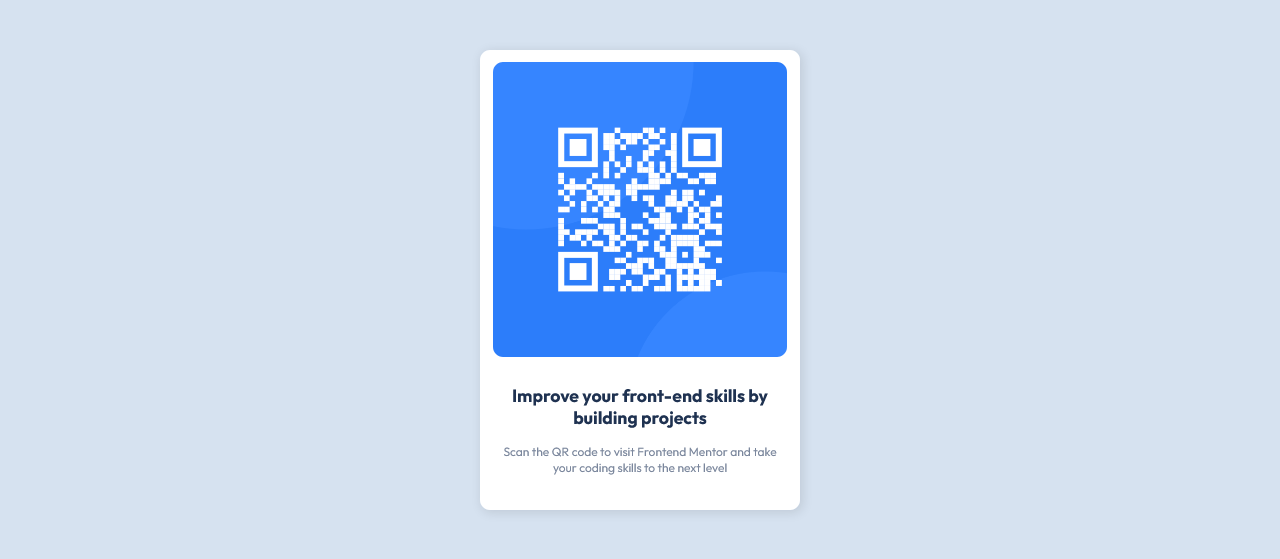
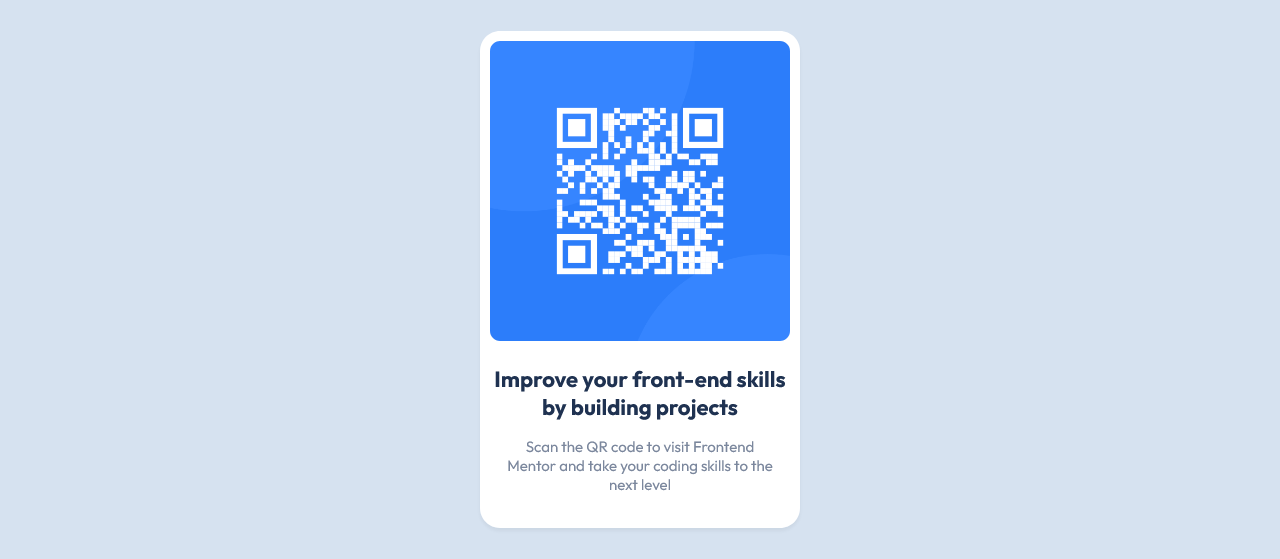
change px to rem and change margin size for Project No.1 - QR code component main

diff --git a/qr-code-component-main/style.css b/qr-code-component-main/style.css
@@ -1,47 +1,50 @@
 @import url('https://fonts.googleapis.com/css2?family=Outfit:wght@400;700&display=swap');
 
+:root {
+    font-size: 62.5%;
+}
+
 * {
     box-sizing: border-box;
 }
 
 body {
-    margin: 0;
-    height: 100vh;
     font-family: 'Outfit', sans-serif;
-    background-color: hsl(212, 45%, 89%);
     display: flex;
     justify-content: center;
     align-items: center;
+    margin: 0;
+    height: 100vh;
+    background-color: hsl(212, 45%, 89%);
 }
 
 .QR-code {
-    width: 320px;
-    padding: 1rem;
     text-align: center;
+    width: 32rem;
+    padding: 1rem;
+    border-radius: 2rem;
+    box-shadow: 0rem 0.25rem 0.25rem rgba(0, 0, 0, 0.05);
     background-color: hsl(0, 0%, 100%);
-    border-radius: 10px;
-    box-shadow: 2px 2px 10px 1px rgba(0, 0, 0, 0.1);
 }
 
 .QR-code__img {
+    display: block;
     width: 100%;
-    border-radius: 10px;
+    border-radius: 1rem;
 }
 
-.QR-code__description {
-    padding: 10px;
-    margin-top: 14px;
-}
 
 .QR-code__title {
-    margin: 0;
+    font-size: 2.2rem;
     font-weight: 700;
-    font-size: 22px;
+    margin: 2.4rem 0 0 0;
     color: hsl(218, 44%, 22%);
 }
 
 .QR-code__text {
-    margin-top: 16px;
-    font-size: 15px;
+    font-size: 1.5rem;
+    line-height: 1.9rem;
+    margin: 1.6rem 0 2.4rem 0;
+    padding: 0 1.6rem 0 1.6rem;
     color: hsl(220, 15%, 55%);
 }

diff --git a/qr-code-component-main/index.html b/qr-code-component-main/index.html
@@ -10,12 +10,12 @@
 
 </head>
 <body>
+  <main>
     <div class="QR-code">
       <img src="images/image-qr-code.png" alt="QR code" class="QR-code__img">
-      <div class="QR-code__description">
-        <h3 class="QR-code__title">Improve your front-end skills by building projects</h3>
+        <h1 class="QR-code__title">Improve your front-end skills by building projects</h1>
         <p class="QR-code__text">Scan the QR code to visit Frontend Mentor and take your coding skills to the next level</p>
-      </div>
     </div>
+  </main>
 </body>
 </html>

diff --git a/qr-code-component-main/README.md b/qr-code-component-main/README.md
@@ -5,13 +5,16 @@ This is a solution to the [QR code component challenge on Frontend Mentor](https
 ## Table of contents
 
 - [Overview](#overview)
+  - [The challenge](#the-challenge)
   - [Screenshot](#screenshot)
   - [Links](#links)
 - [My process](#my-process)
   - [Built with](#built-with)
   - [What I learned](#what-i-learned)
   - [Continued development](#continued-development)
+  - [Useful resources](#useful-resources)
 - [Author](#author)
+- [Acknowledgments](#acknowledgments)
 
 
 ## Overview
@@ -36,15 +39,29 @@ This is a solution to the [QR code component challenge on Frontend Mentor](https
 
 ### What I learned
 
-Since this is the first project that I've done, I learned the basics of using git and Github, as well as how to host a website on Netlify. This challenge was a good opportunity to learn how to set up a project. I also had the chance to practice CSS a little bit and use Flexbox.
+Since this is the first project that I've done, I learned the basics of using git and Github, as well as how to host a website on Netlify.
+I also learned how to use 'rem' instead of 'px' by setting the setting the font-value on the ':root' element to 62.5%.
+Another good thing I learned is how to remove the white space below images. Images are inline-level elements and the browser leaves extra white space below them. To remove it, we just have to set the 'display' value of the image to 'block'.
 
 
 ### Continued development
 
-I need the see what are best practices for coming up with names for classes in my HTML before my next project. I also need to learn how the 'box-shadow' property works.
+Before starting my next project I need to do the following:
+  -Look up best practices for coming up with names for classes in my HTML;
+  -Learn how the 'box-shadow' property works;
+  -Read about the HTML 'role' attribute;
+
+### Useful resources
+
+- [Stack Overflow - Px, em or rem](https://stackoverflow.com/questions/11799236/should-i-use-px-or-rem-value-units-in-my-css) - This helped me see how to use 'rem' units instead of 'px'.
+- [Tutorial Republic - How to remove the extra white space underneath an image using CSS](https://www.tutorialrepublic.com/faq/how-to-remove-white-space-under-an-image-using-css.php) - This helped me see how to remove the white space that the browser leaves below images.
 
 
 ## Author
 
 - Frontend Mentor - [@Kristina225](https://www.frontendmentor.io/profile/Kristina225)
 - Twitter - [@KristinaPopovs3](https://twitter.com/KristinaPopovs3)
+
+## Acknowledgments
+
+I would like to thank @pascall-de-creator for selflessly proving tips and suggestions and helping me improve my solution.
